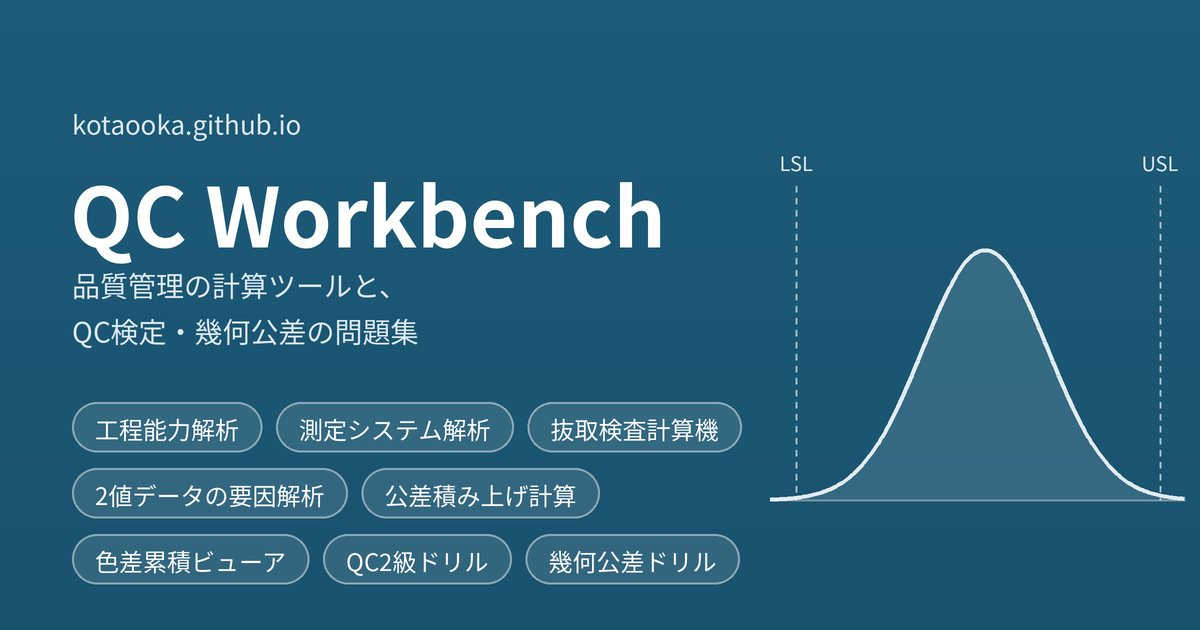
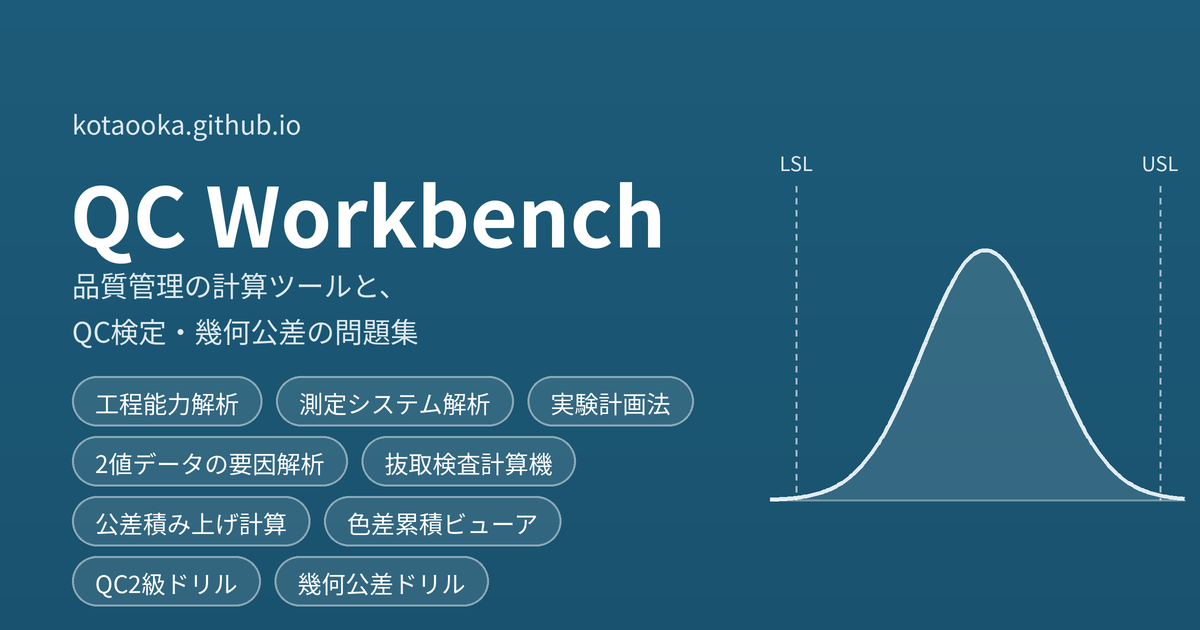
ツール一覧に実験計画法（doe-calc）を追加する
一覧・説明文・README・sitemap.xml・og.png（ツール名を 4 行に）を更新

Changed region(s): [[0.0617, 0.573, 0.6167, 0.9651]]

diff --git a/index.html b/index.html
@@ -161,7 +161,7 @@
       <h1>QC Workbench</h1>
       <button class="theme" id="themeBtn" type="button" aria-label="表示テーマを切り替え">表示：自動</button>
     </div>
-    <p class="lead">工程能力・測定システム解析・2値データの要因解析・抜取検査・公差積み上げ・色差の計算と、QC検定・幾何公差の学習。</p>
+    <p class="lead">工程能力・測定システム解析・2値データの要因解析・実験計画法・抜取検査・公差積み上げ・色差の計算と、QC検定・幾何公差の学習。</p>
   </header>
 
   <main id="app"></main>
@@ -208,6 +208,14 @@ const tools = [
     std: ["ロジスティック回帰", "Firth 法", "オッズ比 / AUC"],
     open: "https://kotaooka.github.io/logit-calc/",
     repo: "https://github.com/kotaooka/logit-calc"
+  },
+  {
+    section: "calc", fig: "doe",
+    name: "実験計画法",
+    desc: "直交表への割り付けから実験順序表、分散分析・要因効果図、最適条件の推定まで。タグチメソッドの SN比・2 段階設計・確認実験にも対応。",
+    std: ["直交表 L4〜L18", "擬水準法", "SN比"],
+    open: "https://kotaooka.github.io/doe-calc/",
+    repo: "https://github.com/kotaooka/doe-calc"
   },
   {
     section: "calc", fig: "oc",
@@ -303,6 +311,19 @@ const figs = {
       <path d="${path(curve)}" fill="none" stroke="currentColor" stroke-width="2"/>
       ${lo.map(x => `<circle cx="${x}" cy="${bot + 7}" r="2.8" fill="var(--panel)" stroke="currentColor" stroke-width="1.4"/>`).join("")}
       ${hi.map(x => `<circle cx="${x}" cy="${top - 7}" r="2.8" fill="var(--fig-weak)" stroke="currentColor" stroke-width="1.4"/>`).join("")}`;
+  },
+  // 実験計画法：要因効果図（3 因子 × 3 水準、良い水準を強調。右端はプールした因子）
+  doe() {
+    const panels = [[54, 42, 34], [66, 40, 16], [42, 46, 40]], pw = 38, x0 = 9, top = 8, bot = 76;
+    let s = `<line x1="${x0}" y1="44" x2="${x0 + pw * 3}" y2="44" stroke="currentColor" stroke-dasharray="3 3" stroke-opacity=".5"/>`;
+    panels.forEach((ys, i) => {
+      const px = j => x0 + i * pw + pw * (j + 0.5) / 3;
+      if (i) s += `<line x1="${x0 + i * pw}" y1="${top}" x2="${x0 + i * pw}" y2="${bot}" stroke="currentColor" stroke-opacity=".25"/>`;
+      const pooled = i === 2, best = ys.indexOf(Math.min(...ys));
+      s += `<path d="${path(ys.map((y, j) => [px(j), y]))}" fill="none" stroke="currentColor" stroke-width="${pooled ? 1.2 : 2}"${pooled ? ' stroke-dasharray="3 2" stroke-opacity=".55"' : ""}/>`;
+      s += ys.map((y, j) => `<circle cx="${px(j).toFixed(1)}" cy="${y}" r="${j === best && !pooled ? 3.8 : 2.6}" fill="${j === best && !pooled ? "var(--fig-weak)" : "var(--panel)"}" stroke="currentColor" stroke-width="1.5"${pooled ? ' stroke-opacity=".55"' : ""}/>`).join("");
+    });
+    return s + `<line x1="${x0}" y1="${bot + 4}" x2="${x0 + pw * 3}" y2="${bot + 4}" stroke="currentColor" stroke-opacity=".4"/>`;
   },
   // 抜取検査：2つの方式の OC 曲線
   oc() {

diff --git a/tools/make_og.py b/tools/make_og.py
@@ -13,9 +13,10 @@ FONT_DIR = pathlib.Path(sys.argv[1] if len(sys.argv) > 1 else "/usr/share/fonts/
 
 SUBTITLE = ["品質管理の計算ツールと、", "QC検定・幾何公差の問題集"]
 TOOLS = [
-    ["工程能力解析", "測定システム解析", "抜取検査計算機"],
-    ["2値データの要因解析", "公差積み上げ計算"],
-    ["色差累積ビューア", "QC2級ドリル", "幾何公差ドリル"],
+    ["工程能力解析", "測定システム解析", "実験計画法"],
+    ["2値データの要因解析", "抜取検査計算機"],
+    ["公差積み上げ計算", "色差累積ビューア"],
+    ["QC2級ドリル", "幾何公差ドリル"],
 ]
 TOP, BOTTOM = (28, 91, 121), (25, 82, 110)
 K = 2  # 縮小前の倍率（アンチエイリアス用）
@@ -44,7 +45,8 @@ def main():
         assert 72 * K + d.textlength(line, font=font("Regular", 28)) < 770 * K, f"副題の行が図に重なる: {line}"
 
     pf = font("Regular", 24)
-    y = 402 * K
+    # ツール名は 4 行。行の間隔を詰めて画像の下端に収める
+    y = 376 * K
     for row in TOOLS:
         x = 72 * K
         for name in row:
@@ -53,7 +55,7 @@ def main():
             d.text((x + 23 * K, y + 9 * K), name, font=pf, fill=(255, 255, 255))
             x += w + 14 * K
         assert x < 770 * K, f"ツール名の行が図に重なる: {row}"
-        y += 66 * K
+        y += 60 * K
 
     # 右側の図：分布曲線と規格線
     x0, x1, base, m, s, amp = 770, 1185, 500, 985, 62, 250

diff --git a/README.md b/README.md
@@ -7,6 +7,7 @@
 | 工程能力解析 | https://kotaooka.github.io/cpk-calc/ | [cpk-calc](https://github.com/kotaooka/cpk-calc) |
 | 測定システム解析 | https://kotaooka.github.io/msa-calc/ | [msa-calc](https://github.com/kotaooka/msa-calc) |
 | 2値データの要因解析 | https://kotaooka.github.io/logit-calc/ | [logit-calc](https://github.com/kotaooka/logit-calc) |
+| 実験計画法 | https://kotaooka.github.io/doe-calc/ | [doe-calc](https://github.com/kotaooka/doe-calc) |
 | 抜取検査計算機 | https://kotaooka.github.io/sampling-calc/ | [sampling-calc](https://github.com/kotaooka/sampling-calc) |
 | 公差積み上げ計算 | https://kotaooka.github.io/stackup-calc/ | [stackup-calc](https://github.com/kotaooka/stackup-calc) |
 | 色差累積ビューア | https://kotaooka.github.io/deltae-calc/ | [deltae-calc](https://github.com/kotaooka/deltae-calc) |
